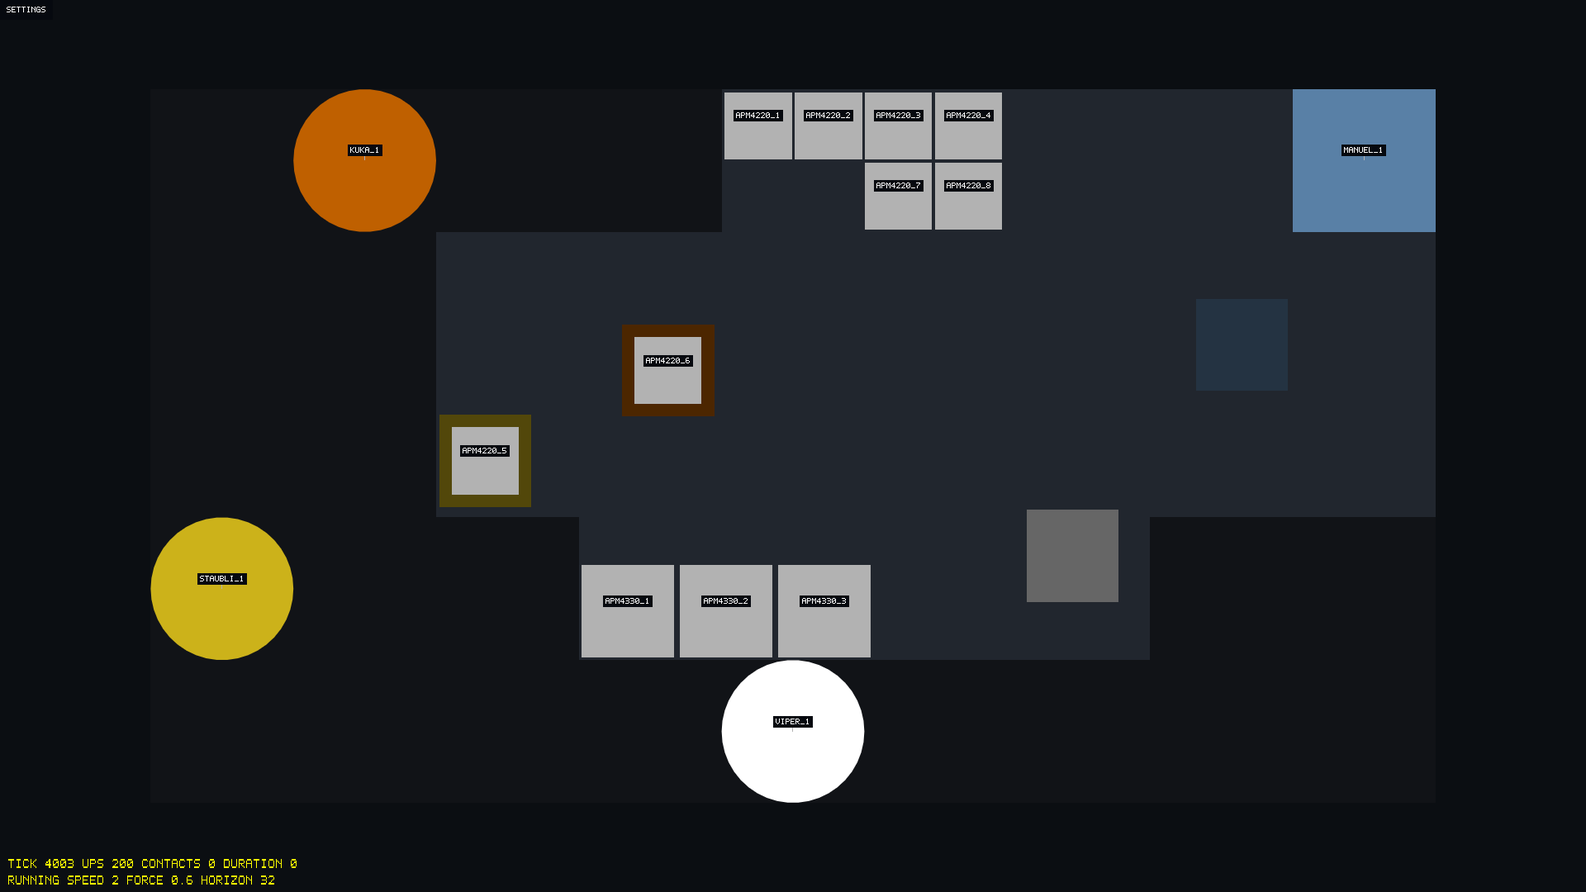
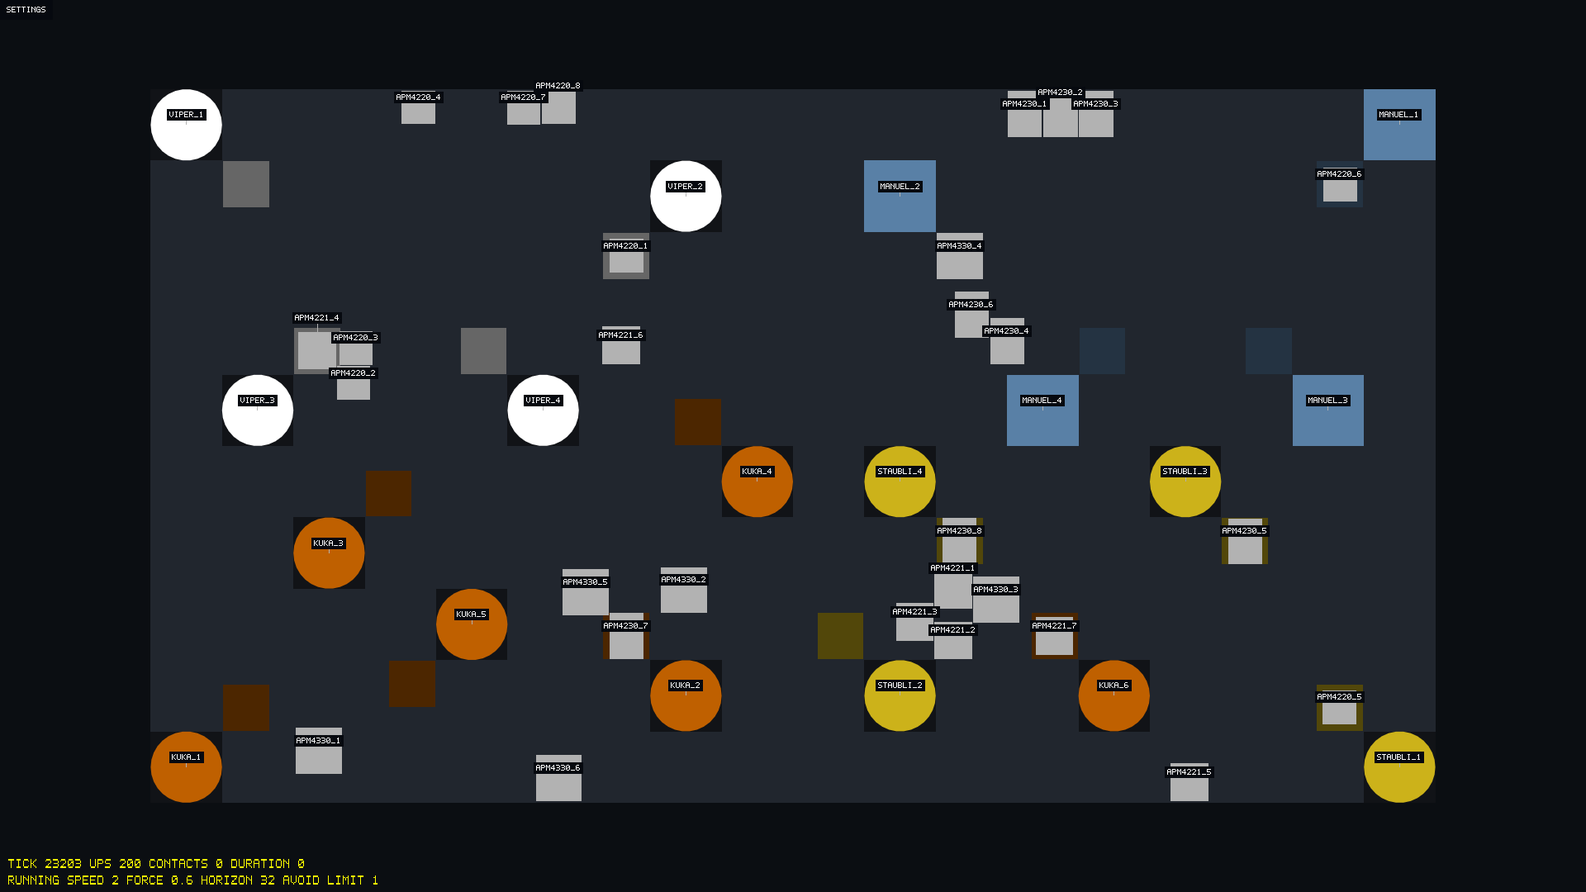
docs(media): refresh the Dotio and i4sim captures and describe their scripts
Dotio: the player shoots at the enemies in sight; the debug clip shows
twelve seconds of the AI cycle from a wide view. i4sim: the 4320x2400
floor with the Reciprocal profile and plain A*, twelve seconds at 200
ticks per second.

diff --git a/tools/capture/README.md b/tools/capture/README.md
@@ -26,7 +26,7 @@ tools/capture/capture_media.sh                # all scenes, into docs/media
 tools/capture/capture_media.sh build-graphics dotio dotio-clip   # only these
 ```
 
-It does not record from a running application, and it adds nothing to the applications or the launcher: it calls the same `Session::advance` and `render` the launcher calls. It is a Linux developer tool; it builds wherever zlib is found, and the script needs bash and ffmpeg.
+It does not record from a running application, and it changes nothing an application or the launcher does: it calls the same `Session::advance` and `render` the launcher calls. The one thing an application offers it is `dotio::Session::application`, through which the scripted player sees Dotio's world. It is a Linux developer tool; it builds wherever zlib is found, and the script needs bash and ffmpeg.
 
 ## Concepts
 
@@ -36,7 +36,9 @@ It does not record from a running application, and it adds nothing to the applic
 | Screenshot | A scene that writes `<scene>.png`, at 1920 × 1080 |
 | Clip | A scene that writes `<scene>/frame-0001.png` onwards, at 960 × 540; the script makes `<scene>.gif` of it |
 | Step | One `advance` of the session by 1/60 s, as one frame of a 60 Hz display, so the statistics show real rates |
-| Clip frame | Four steps; clips play at 15 frames per second and last four seconds (60 frames), except showcase clips |
+| Clip frame | Four steps; clips play at 15 frames per second. Demo's clips and Dotio's gameplay clip last four seconds (60 frames), the Dotio debug clip and the i4sim clips twelve (180), a showcase clip one cycle |
+| Scripted player | Dotio's player in the captures. It reads the world of the running session between frames and answers with a pointer position and the fire button, because Dotio's AI is not seeded and no timeline could aim for it |
+| Menu click | A debug-menu row a script clicks, by number, with the label the row must have at that moment (`MenuClick`), so a test can replay it without a window |
 | Showcase cycle | One round of an i4sim showcase scene: out, pause, back and pause for a shuttle; run, pause and restart for corridor recovery. A showcase clip lasts exactly one |
 | Stage | The driver of one session: steps, key presses, clicks on overlay rows, and writing frames |
 
@@ -47,20 +49,24 @@ flowchart LR
     Main[main.cpp: CLI] --> Scenes[scenes.cpp: scene list and scripts]
     Scenes --> Stage[stage.cpp: Stage]
     Scenes --> Showcase[showcase.cpp: cycle length]
+    Scenes --> Player[dotio_player.cpp: target and aim]
     Showcase -->|headless| Controller[i4sim FactoryController]
-    Stage -->|launcher::applications| Sessions[kinetra_sessions: Demo, Dotio, i4sim]
+    Player -->|reads| World[Dotio Application and World]
+    Stage -->|launcher::applications, create_session| Sessions[kinetra_sessions: Demo, Dotio, i4sim]
+    Stage -->|dotio::Session::application| World
     Stage -->|glReadPixels| Png[png.cpp: write_png]
     Png --> Zlib[zlib]
 ```
 
-*Takeaway:* the scripts know the applications' controls; the stage knows how to drive a session and save a frame; the showcase measurement replays a scene without a window; only `png.cpp` touches zlib.
+*Takeaway:* the scripts know the applications' controls; the stage knows how to drive a session and save a frame; the showcase measurement replays a scene without a window; the scripted player only reads Dotio's world; only `png.cpp` touches zlib.
 
 | File | Responsibility |
 | --- | --- |
 | [src/main.cpp](src/main.cpp) | `kinetra_capture <output-directory> [scene...]`: one `Runtime` per scene, at the scene's size |
-| [src/scenes.h](src/scenes.h), [src/scenes.cpp](src/scenes.cpp) | `Scene`, `scenes()`, `select_scenes()`, and the script of every scene |
+| [src/scenes.h](src/scenes.h), [src/scenes.cpp](src/scenes.cpp) | `Scene`, `scenes()`, `select_scenes()`, the script of every scene, and the menu rows the Dotio and i4sim scripts click (`MenuClick`, `i4sim_motion_clicks`) |
+| [src/dotio_player.h](src/dotio_player.h), [src/dotio_player.cpp](src/dotio_player.cpp) | The scripted Dotio player: `dotio_target`, `lead_offset`, `dotio_aim`, `dotio_recovery_in_view` |
 | [src/showcase.h](src/showcase.h), [src/showcase.cpp](src/showcase.cpp) | `showcase_cycle_steps`: the steps of one showcase cycle, measured in a headless `FactoryController` |
-| [src/stage.h](src/stage.h), [src/stage.cpp](src/stage.cpp) | `Stage`: starting sessions as the launcher does, steps, clicks on settings and debug rows, `shot()`, `record()` |
+| [src/stage.h](src/stage.h), [src/stage.cpp](src/stage.cpp) | `Stage`: starting sessions as the launcher does, steps, `play_until()` a condition, clicks on settings and debug rows, `shot()`, `record()` |
 | [src/png.h](src/png.h), [src/png.cpp](src/png.cpp) | `write_png`: eight-bit RGB, rows filtered "none" or "up", one zlib stream |
 | [capture_media.sh](capture_media.sh) | Runs the tool offscreen into a temporary directory, makes the GIFs, copies into `docs/media` |
 | [tests/](tests/) | Window-free tests and the graphics smoke test |
@@ -77,7 +83,7 @@ sequenceDiagram
     Sh->>T: SDL offscreen, software Mesa
     loop every scene
         T->>St: new Runtime at the scene's size
-        St->>S: create through launcher::applications (seed 42)
+        St->>S: create as the launcher does (seed 42)
         St->>S: advance(1/60 s, scripted Input) ...
         St->>S: render, then glReadPixels and write_png
     end
@@ -87,15 +93,19 @@ sequenceDiagram
 
 *Takeaway:* every pixel comes from the applications' own drawing; the tool only chooses the input and the moment.
 
-- **Scripts.** Demo and i4sim start in Debug Mode, so their normal scenes turn DEBUG MODE off in the settings panel first. Dotio's debug scenes turn it on, open the debug menu and click every visual row; PATHS opens four filters right below it, so the rows after it are clicked in their new places. The i4sim scenes load `MAS-demonstrator.json`, run it for 20 s first, and the clips run at 800 ticks per second, because at 200 its movers barely move in four seconds.
+- **Scripts.** Demo and i4sim start in Debug Mode, so their normal scenes turn DEBUG MODE off in the settings panel. Dotio's debug scenes turn it on, open the debug menu and click every visual row; PATHS opens four filters right below it, so the rows after it are clicked in their new places.
+- **Dotio's player.** `Stage::start_dotio` creates the session as the launcher's entry does and keeps its `Application` (`dotio::Session::application`). Before every clip frame `dotio_aim` picks the nearest live enemy on screen with no wall between it and the player, the sight line the enemies' own AI uses, and leads it by its velocity for the bolt's flight time (`lead_offset`); the script puts the pointer there and holds the button for the first half of every second. Without an enemy in sight the player holds fire. The screenshots and the gameplay clip run a square through the corridors with it.
+- **The Dotio debug clip** closes the menu, zooms out nine wheel notches and lets the player hold its ground with a sidestep every two seconds. It first waits without firing (`Stage::play_until`, 60 s at most) until `dotio_recovery_in_view` finds an enemy in Recover a fifth of the window's height inside the view: an enemy recovers only after nine shots at the player, and one that is shot at from the start dies before. Then it records twelve seconds in which the player shoots back.
+- **i4sim's scenes** load `4320x2400.json` and click `i4sim_motion_clicks` in the debug menu (MOTION, PROFILE, RECIPROCAL, PLANNER, A*) before Space; the normal view turns Debug Mode off afterwards, because the menu needs it. The floor runs 116 s first, into its busiest stretch, and the clips record twelve seconds at the session's 200 ticks per second with the menu closed. The debug screenshot opens LAYERS instead.
 - **Showcase scenes.** Each loads its file from the catalog's `showcase/` directory and keeps Debug Mode and every layer on, with the debug menu closed. Before recording, `showcase_cycle_steps` runs the same scene in a `FactoryController`, the headless half of the i4sim session, with the stage's seed, rate (`i4sim_updates_per_second`) and step, Space first, and counts the steps until a mover sets off again after the last standstill of the cycle. The clip records that many steps, rounded down to whole clip frames, so its last frame is in the final pause and the GIF loops like the application.
 - **Clicks.** A settings row is found through a mirror `SettingsOverlay` with the same Lab rows (`row_y`, `half_extent`), and a debug-menu row through `DebugMenu::row_top`, the same public layout the graphics tests use. Presses, clicks and the wheel apply to the first step of a clip frame; held keys and buttons to all four.
 - **Frames.** `Runtime::end()` presents the frame, so the stage reads the front buffer, as the graphics tests do, flips the rows and writes the PNG.
-- **GIFs.** One palette per clip (`palettegen`), no dithering, because the applications draw flat colors, and only the changed rectangle per frame (`diff_mode=rectangle`). The six application GIFs are about 2 MB together, the five showcase GIFs about 2.7 MB.
+- **GIFs.** One palette per clip (`palettegen`), no dithering, because the applications draw flat colors, and only the changed rectangle per frame (`diff_mode=rectangle`). The six application GIFs are about 5.2 MB together, the five showcase GIFs about 2.7 MB.
 
 ## Invariants and contracts
 
-- **Determinism.** Same code, same pixels: seed 42, fixed steps, software rendering. Dotio is the exception: its AI still draws from `std::random_device` and `std::rand` ([quality roadmap](../../docs/design/2026-11-18-quality-roadmap.md)), so its captures differ per run.
+- **Determinism.** Same code, same pixels: seed 42, fixed steps, software rendering. Dotio is the exception: its AI still draws from `std::random_device` and `std::rand` ([quality roadmap](../../docs/design/2026-11-18-quality-roadmap.md)), so its captures differ per run. Its scripts therefore react to the world instead of following a timeline.
+- **Input only.** A script changes a session through `kinetra::Input` alone. The scripted player reads Dotio's `Application` between frames and never writes to it.
 - **One Runtime at a time.** Each scene creates and destroys its own `Runtime`; the stage releases a session before it starts the next, because Dotio's world is a singleton.
 - **Names are file names.** A scene's name is its file name in `docs/media`; clip names end in `-clip`. The README gallery and the media guide refer to these names.
 
@@ -106,16 +116,18 @@ sequenceDiagram
 | Add a capture | A script function and an entry in `scenes()`; the gallery in the root README and the [media guide](../../docs/media/README.md) | Add the name to the scene-list case in `capture_tests.cpp`; run `capture_media.sh <build> <name>` and look at the result |
 | Add a showcase clip | An entry in `scenes()` that calls `i4sim_showcase` with the file name, the gallery and the media guide | The scene-list case and the scene list of the cycle case in `capture_tests.cpp`; look at the first and last frames |
 | Change what a capture shows | Its script in `scenes.cpp` | Run the scene and inspect the PNG or the frames |
-| Follow a changed menu or settings layout | The row constants at the top of `scenes.cpp`, or `SettingsRow` in `stage.h` | The smoke test, then a full refresh |
+| Change what the Dotio player does | `dotio_player.cpp` for target and aim, `dotio_shoot` and the movement functions in `scenes.cpp` for fire and steps | The player cases in `capture_tests.cpp`, which place enemies by hand in a world without walls; then look at a clip |
+| Change the i4sim floor or motion settings | `i4sim_capture_blueprint` and `i4sim_motion_clicks` in `scenes.h`; the warm-up in `scenes.cpp`, which is tied to the floor, the seed and the settings | The menu-click case; look at the clips for a busy stretch |
+| Follow a changed menu or settings layout | The rows in `scenes.h` (`i4sim_motion_clicks`, `i4sim_layers_click`, the Dotio debug rows), or `SettingsRow` in `stage.h` | The menu cases in `capture_tests.cpp` name the row that moved; then the smoke test and a full refresh |
 
-Pitfalls: a script that clicks a row by number breaks silently when the menu changes, and only the picture shows it, so look at every refreshed capture. A pointer left on a menu highlights a row; scripts park it in the bottom-right corner before a shot.
+Pitfalls: a script clicks rows by number. The debug-menu rows are checked by tests, but the settings rows are not, and no test sees a picture, so look at every refreshed capture. A pointer left on a menu highlights a row; scripts park it in the bottom-right corner before a shot. A Dotio capture differs per run: render the debug clip a few times and keep a take in which the enemies stay around the player.
 
 ## Tests
 
 | Suite | Covers | Needs |
 | --- | --- | --- |
-| `kinetra_capture` (`kinetra_capture_tests`) | `write_png`: signature, header, CRCs and decoded pixels; invalid input; the scene list matches the files in `docs/media`; `select_scenes`; `showcase_cycle_steps` holds each scene's pauses, repeats exactly and rejects a blueprint without a repeating scenario | Nothing |
-| `kinetra_capture_smoke` | Runs `launcher`, `i4sim-debug-clip` and `i4sim-showcase-junction-crossing-clip` end to end and checks the files | Graphics (`KINETRA_TEST_GRAPHICS`) |
+| `kinetra_capture` (`kinetra_capture_tests`) | `write_png`: signature, header, CRCs and decoded pixels; invalid input; the scene list matches the files in `docs/media`; `select_scenes`; `showcase_cycle_steps` holds each scene's pauses, repeats exactly and rejects a blueprint without a repeating scenario; the i4sim menu clicks find the rows they name and leave Reciprocal with plain A*; the Dotio debug rows turn on every row but GHOST CAMERA; the scripted player's target, lead, aim point and recovery check | Nothing |
+| `kinetra_capture_smoke` | Runs `launcher`, `i4sim-debug-clip`, `dotio-debug-clip` and `i4sim-showcase-junction-crossing-clip` end to end and checks the files | Graphics (`KINETRA_TEST_GRAPHICS`) |
 
 ```sh
 cmake --build --preset dev --target kinetra_capture_tests && ctest --preset dev -R '^kinetra_capture'
@@ -125,5 +137,6 @@ cmake --build --preset graphics --target kinetra_capture && ctest --preset graph
 ## Open points
 
 - A frame read-back helper on Kinetra's `Runtime` would replace the `glReadPixels` code here and in the graphics tests.
-- Dotio captures are not reproducible until Dotio's randomness is seeded.
-- The scripts click rows by number; a menu change needs the constants in `scenes.cpp` updated by hand.
+- Dotio captures are not reproducible until Dotio's randomness is seeded. Until then the debug clip waits for a recovery instead of a fixed time, and its take is chosen by eye.
+- The scripts click rows by number. Tests check the debug-menu rows against the applications' own row lists; the settings rows still follow `lab::settings_rows` by hand.
+- The i4sim warm-up is tied to the capture seed and today's simulation. A change in the simulation moves the busy stretch; the clip then still renders, but may show a quieter moment.

diff --git a/docs/media/README.md b/docs/media/README.md
@@ -20,19 +20,22 @@ Real application captures used by the project's README gallery, what each one sh
 | [demo-clip.gif](demo-clip.gif), [demo-debug-clip.gif](demo-debug-clip.gif) | Demo: the player walks to two clicked points among the agents, in both views |
 | [dotio.png](dotio.png), [dotio-debug.png](dotio-debug.png) | Dotio gameplay, and Debug Mode with every visual row of the debug menu, zoomed out |
 | [dotio-settings.png](dotio-settings.png) | Dotio's settings panel with SIM CONTROLS expanded |
-| [dotio-clip.gif](dotio-clip.gif), [dotio-debug-clip.gif](dotio-debug-clip.gif) | Dotio: the player runs a square through the corridors and fires in bursts, in both views |
-| [i4sim.png](i4sim.png), [i4sim-debug.png](i4sim-debug.png) | i4sim `MAS-demonstrator` running, with Debug Mode off, and on with the LAYERS section, every part and its swatch |
-| [i4sim-clip.gif](i4sim-clip.gif), [i4sim-debug-clip.gif](i4sim-debug-clip.gif) | i4sim at 800 ticks per second, in both views; the debug clip shows the SIMULATION section |
+| [dotio-clip.gif](dotio-clip.gif) | Dotio: the player runs a square through the corridors and shoots in bursts at the nearest enemy in sight |
+| [dotio-debug-clip.gif](dotio-debug-clip.gif) | Dotio's AI from a wide view, twelve seconds with every visual debug row on and the menu closed. The player holds its ground and shoots back; the clip starts when an enemy has spent its ammunition and runs for shelter (RECOVER, green), and shows the reload out of sight and the return (PURSUE, then ATTACK) |
+| [i4sim.png](i4sim.png), [i4sim-debug.png](i4sim-debug.png) | i4sim `4320x2400` (29 movers, 18 producers) running with the Reciprocal profile and plain A*, with Debug Mode off, and on with the LAYERS section, every part and its swatch |
+| [i4sim-clip.gif](i4sim-clip.gif), [i4sim-debug-clip.gif](i4sim-debug-clip.gif) | The same floor and settings for twelve seconds at the session's 200 ticks per second, in both views; the debug clip has the menu closed |
 | [i4sim-showcase-junction-crossing-clip.gif](i4sim-showcase-junction-crossing-clip.gif), [i4sim-showcase-corridor-passing-clip.gif](i4sim-showcase-corridor-passing-clip.gif), [i4sim-showcase-corridor-recovery-clip.gif](i4sim-showcase-corridor-recovery-clip.gif), [i4sim-showcase-predictive-passing-clip.gif](i4sim-showcase-predictive-passing-clip.gif), [i4sim-showcase-h-crossing-clip.gif](i4sim-showcase-h-crossing-clip.gif) | The five i4sim [showcase scenes](../../labs/i4sim/blueprints/README.md#showcase-scenes), each one full cycle in Debug Mode at 200 ticks per second, so each lasts as long as its scene's cycle |
 | [kinetra-lab-tour.mp4](kinetra-lab-tour.mp4) | Tour video: 2 min 14 s, H.264 at 1920 × 1080 and 60 fps, with an AAC audio track; recorded by hand |
 
 ## Capture details
 
 - **Rendering.** SDL's offscreen driver with software Mesa, read back with `glReadPixels`; no window decoration.
-- **Sizes.** Screenshots 1920 × 1080. Clips are rendered at 960 × 540, so the bitmap font stays sharp, and play at 15 frames per second for four seconds. A showcase clip lasts one cycle of its scene instead, which the tool measures before recording, so the GIF loops as the application repeats the scene.
-- **Sessions.** Created as the bundled launcher creates them, with seed 42, 48 Demo agents and Dotio on Medium. Every step advances 1/60 s, so the statistics show 60 frames per second. Demo and Dotio run 2 s before a capture (Dotio 8 s, for its enemies to arrive), i4sim 20 s. The showcase scenes start at once, as after Space on the SHOWCASE page.
-- **GIFs.** One palette per clip without dithering, and only the changed rectangle per frame; about 2 MB for the six application clips and 2.7 MB for the five showcase clips.
-- **Reproducibility.** A refresh gives the same files, except Dotio's: its AI still uses unseeded randomness ([quality roadmap](../design/2026-11-18-quality-roadmap.md)).
+- **Sizes.** Screenshots 1920 × 1080. Clips are rendered at 960 × 540, so the bitmap font stays sharp, and play at 15 frames per second: four seconds for Demo and the Dotio gameplay clip, twelve for the Dotio debug clip and the i4sim clips. A showcase clip lasts one cycle of its scene instead, which the tool measures before recording, so the GIF loops as the application repeats the scene.
+- **Sessions.** Created as the bundled launcher creates them, with seed 42, 48 Demo agents and Dotio on Medium. Every step advances 1/60 s, so the statistics show 60 frames per second. Demo runs 2 s before a capture and Dotio 8 s, for its enemies to arrive. The showcase scenes start at once, as after Space on the SHOWCASE page.
+- **Dotio's player.** Scripted against the world of the running session, because the AI is not seeded: it aims at the nearest enemy on screen with a clear line of sight, ahead of one that moves, and holds fire without one. The debug clip zooms out nine wheel notches and waits, without firing, until an enemy enters Recover (60 s at most).
+- **i4sim's settings.** The scripts choose PROFILE RECIPROCAL and PLANNER A* in the debug menu's MOTION section before Space; the traffic policies stay off. The floor runs 116 s first: with seed 42 the twelve seconds after that are its busiest, with 12 to 18 of the 29 movers driving. Why this floor and these settings is in the [design document](../design/2026-11-19-credible-media-clips.md#decisions).
+- **GIFs.** One palette per clip without dithering, and only the changed rectangle per frame; about 5.2 MB for the six application clips and 2.7 MB for the five showcase clips.
+- **Reproducibility.** A refresh gives the same files, except Dotio's: its AI still uses unseeded randomness ([quality roadmap](../design/2026-11-18-quality-roadmap.md)). Render the Dotio debug clip a few times and keep a take in which the enemies stay around the player.
 - **What each script does** is in the [capture tool](../../tools/capture/README.md#how-it-works).
 
 ## Refreshing the media

diff --git a/README.md b/README.md
@@ -56,8 +56,8 @@ See the [Labs overview](labs/README.md) for application sources and headless tes
 | Application | Normal view | Debug view |
 | --- | --- | --- |
 | **Demo** | ![Demo: the player walks among physics agents](docs/media/demo-clip.gif) | ![Demo with steering probes, paths, vectors and collision shapes](docs/media/demo-debug-clip.gif) |
-| **Dotio** | ![Dotio: the player runs through the corridors and fires](docs/media/dotio-clip.gif) | ![Dotio with AI states, paths, probes and collision shapes](docs/media/dotio-debug-clip.gif) |
-| **i4sim** | ![i4sim: movers drive between the stations of the MAS demonstrator](docs/media/i4sim-clip.gif) | ![i4sim with debug layers and the debug menu](docs/media/i4sim-debug-clip.gif) |
+| **Dotio** | ![Dotio: the player runs through the corridors and shoots at the enemies in sight](docs/media/dotio-clip.gif) | ![Dotio zoomed out with AI states, paths and sight lines: enemies attack, run for shelter to reload, and come back](docs/media/dotio-debug-clip.gif) |
+| **i4sim** | ![i4sim: 29 movers drive between the stations of the 4320x2400 floor under the Reciprocal profile](docs/media/i4sim-clip.gif) | ![i4sim with the debug layers: routes, forces, borders and detection ranges](docs/media/i4sim-debug-clip.gif) |
 
 The i4sim [showcase scenes](labs/i4sim/blueprints/README.md#showcase-scenes) from the loadscreen's SHOWCASE page, each one full cycle in Debug Mode at 200 ticks per second:
 

diff --git a/labs/dotio/include/README.md b/labs/dotio/include/README.md
@@ -16,7 +16,7 @@ Ownership stays in Application; presentation and physics adapters translate at e
 
 ```mermaid
 flowchart LR
-    Session["session.h: factory"] --> Application["application.h: Application owns World"]
+    Session["session.h: Session and its factory"] --> Application["application.h: Application owns World"]
     Presentation["presentation.h: drawing boundary"] --> Application
     Presentation --> Runtime["Kinetra Runtime"]
     World["Game logic World"] --> Adapter["physics_adapter.h: conversion helpers"]
@@ -32,7 +32,7 @@ flowchart LR
 | [physics_adapter.h](physics_adapter.h) | Legacy body and physics conversion helpers |
 | [portable.h](portable.h) | Portable compatibility includes and definitions |
 | [presentation.h](presentation.h) | Rendering and input presentation boundary |
-| [session.h](session.h) | Session factory shared by direct and bundled launch |
+| [session.h](session.h) | `dotio::Session`, a Lab session that also gives its `Application` to a tool that plays the game (the [capture tool](../../../tools/capture/README.md)'s scripted player), and the factory shared by direct and bundled launch |
 
 ## Architecture and build
 

diff --git a/docs/dotio-architecture.md b/docs/dotio-architecture.md
@@ -26,6 +26,8 @@ Movement consumes 60 Hz ticks; AI runs at 20 Hz, sequentially on the owning thre
 
 Source: [Application](../labs/dotio/include/application.h), [session](../labs/dotio/src/session.cpp), [presentation](../labs/dotio/src/presentation.cpp), [logic](../labs/dotio/logic/). The engine imports none of these headers.
 
+The session is a `dotio::Session` ([session.h](../labs/dotio/include/session.h)): a Lab session that also returns its Application. A tool that plays the game reads the world through it between frames and answers with ordinary input; the [capture tool](../tools/capture/README.md#how-it-works)'s scripted player aims that way, because the AI is not seeded. The launcher uses only the base type.
+
 ## Lifecycle and constraints
 
 Application owns logic::World through a unique_ptr to keep the address stable: enemies and AI states reference that world. World owns actor/projectile pools, navigation graph and props. Static Grid storage limits the process to one active Dotio world. Return to the launcher menu and destroy the session before creating its replacement.
